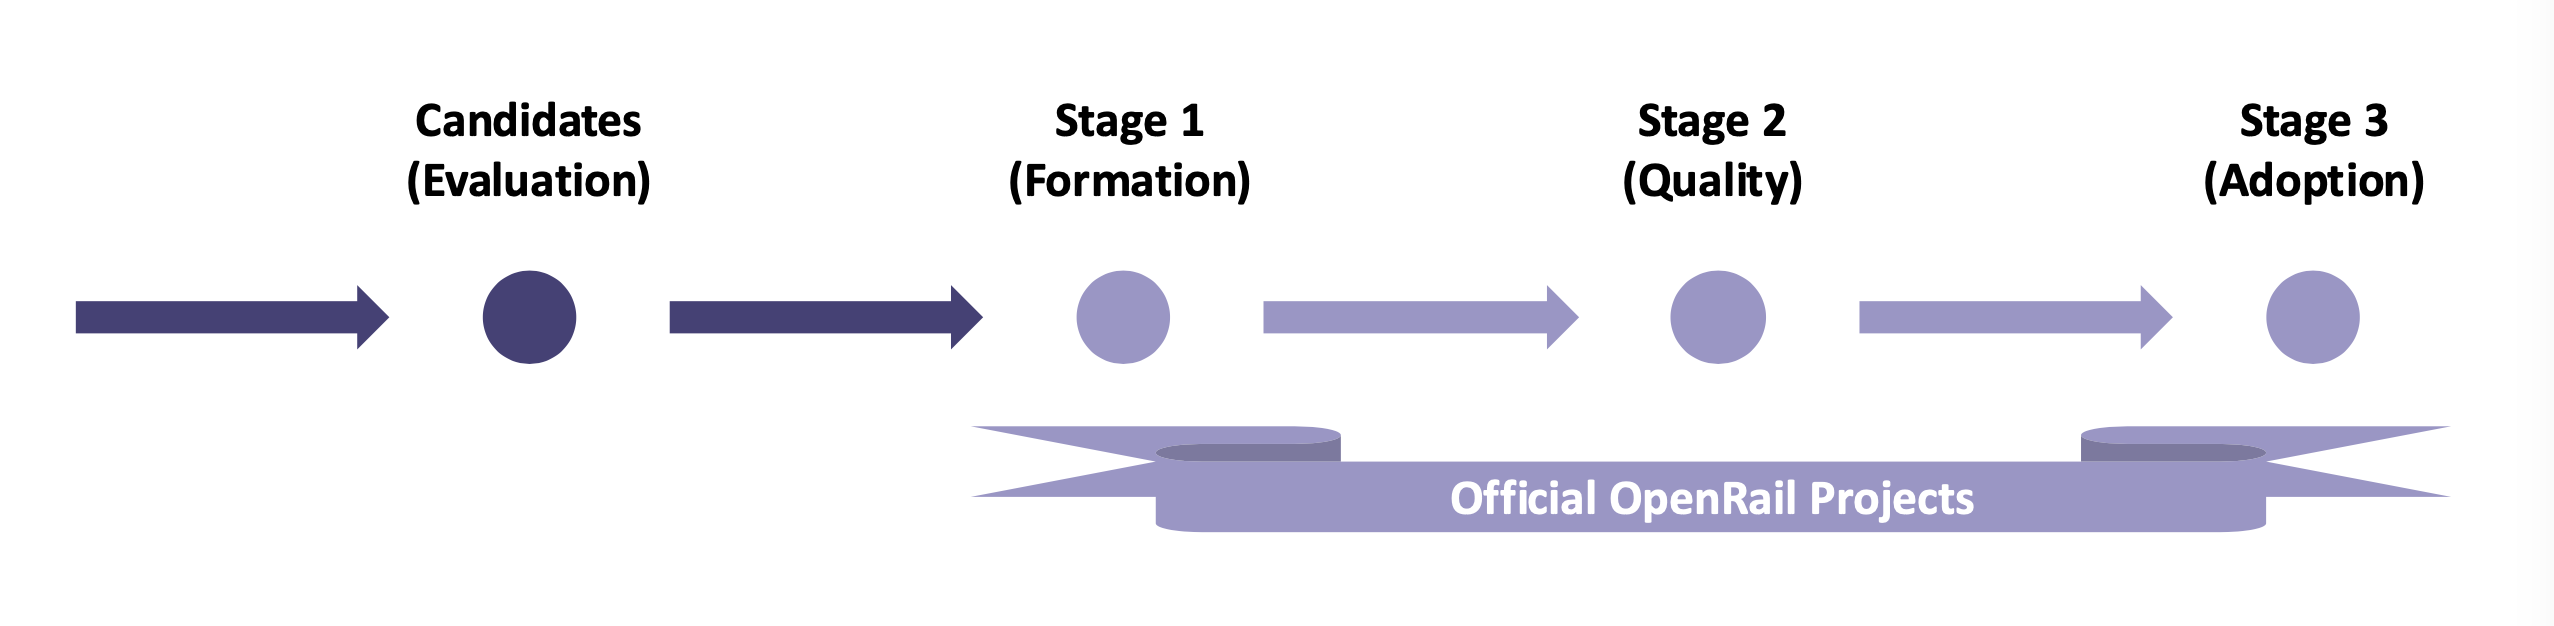
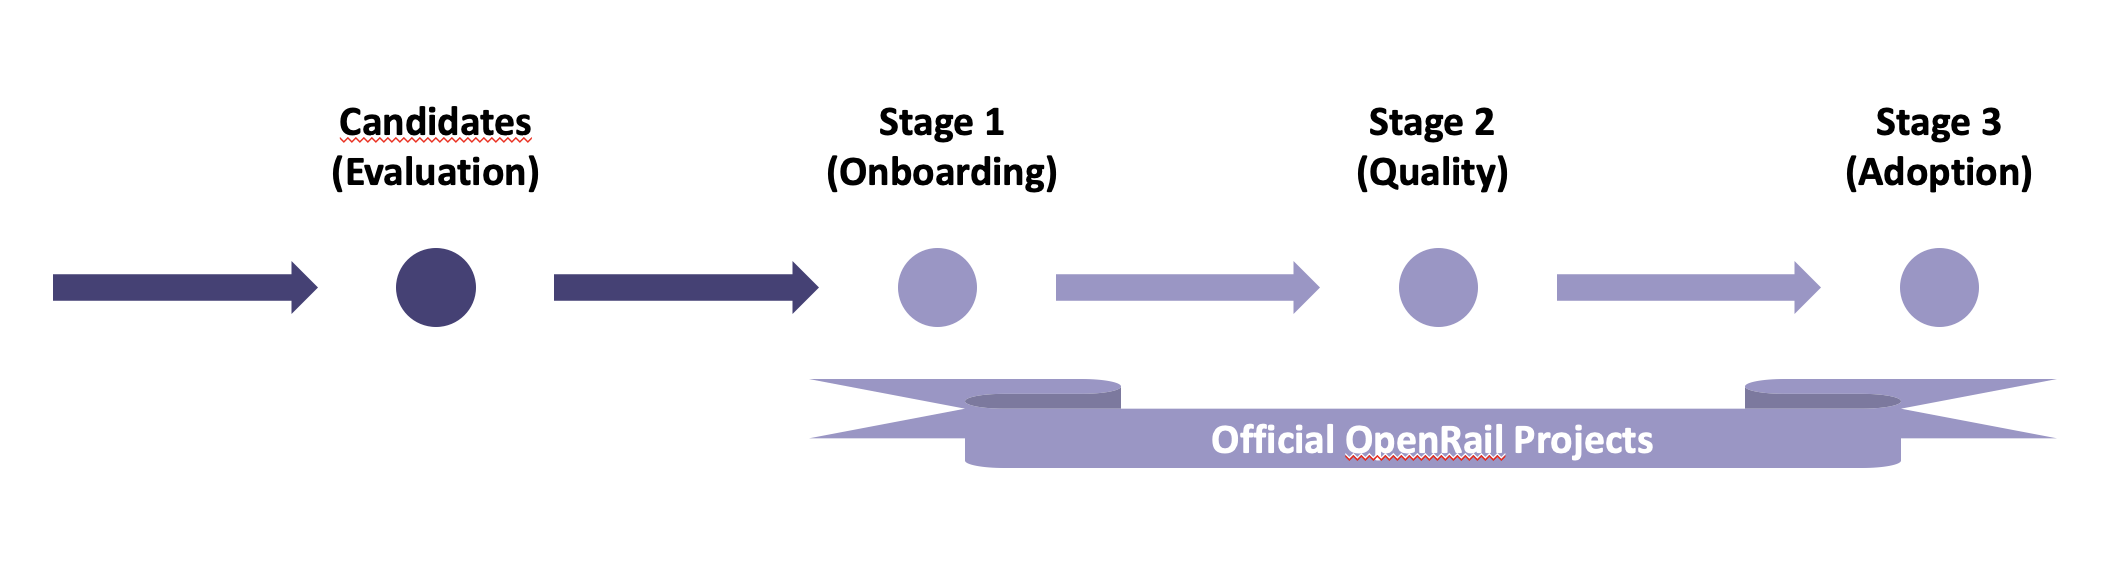
Replace Formed by Onboarded

diff --git a/incubation-process.md b/incubation-process.md
@@ -2,7 +2,7 @@
 
 This document describes the incubation process for projects in the OpenRail Association. This includes how a project can join OpenRail as well as how a project can move to subsequent stages of maturity.
 
-Projects can be in four stages which are reflecting the maturity of the project and the level of adoption in the OpenRail community (Formed, Qualified, Adopted, Retired). For each stage the project has to fulfill a set of criteria. Projects can propose to be moved from one stage to the next. The TC will evaluate the proposal and decide if the project can move to the next stage.
+Projects can be in four stages which are reflecting the maturity of the project and the level of adoption in the OpenRail community (Onboarded, Qualified, Adopted, Retired). For each stage the project has to fulfill a set of criteria. Projects can propose to be moved from one stage to the next. The TC will evaluate the proposal and decide if the project can move to the next stage.
 
 ![Project funnel](images/project-funnel.png)
 
@@ -16,15 +16,15 @@ The criteria for each stage are listed in the subsequent sections along with the
 
 ## Stage 0: Candidate
 
-Projects which intend to join the OpenRail Association are considered candidates. Candidates are not yet OpenRail projects. They are evaluated by the Technical Committee on request of the project to become part of the OpenRail Association. Candidates need to at least fulfill the criteria for the Formed stage to be accepted into the OpenRail Association.
+Projects which intend to join the OpenRail Association are considered candidates. Candidates are not yet OpenRail projects. They are evaluated by the Technical Committee on request of the project to become part of the OpenRail Association. Candidates need to at least fulfill the criteria for the Onboarded stage to be accepted into the OpenRail Association.
 
-## Stage 1: Formed
+## Stage 1: Onboarded
 
-The Formed stage is the initial stage for projects being hosted by the OpenRail Association. Formed projects meet the minimal requirements necessary for being considered to be part of the OpenRail Association.
+The Onboarded stage is the initial stage for projects being hosted by the OpenRail Association. Onboarded projects meet the minimal requirements necessary for being considered to be part of the OpenRail Association.
 
-The Formed stage is the entry stage for all projects hosted by the OpenRail Association. This stage is meant for projects to mature and work on meeting the criteria for the Incubation stage while already being part of the OpenRail Association. This can be projects that are in an early phase or it can be projects which already are mature. More mature projects will likely spend less time in the Formed stage.
+The Onboarded stage is the entry stage for all projects hosted by the OpenRail Association. This stage is meant for projects to mature and work on meeting the criteria for the Incubation stage while already being part of the OpenRail Association. This can be projects that are in an early phase or it can be projects which already are mature. More mature projects will likely spend less time in the Onboarded stage.
 
-The barrier for entering the Formed stage is intended to be low, so that it's easy for projects to become part of the OpenRail Association and the work necessary for moving to the next stage can be done within the Association with the support of the Technical Committee.
+The barrier for entering the Onboarded stage is intended to be low, so that it's easy for projects to become part of the OpenRail Association and the work necessary for moving to the next stage can be done within the Association with the support of the Technical Committee.
 
 ### Criteria
 
@@ -36,13 +36,13 @@ The barrier for entering the Formed stage is intended to be low, so that it's ea
 
 ### Process
 
-1. The project applies to join the Formed using the [New Project Questionnaire](project-proposals/stage-1/stage-1-questionnaire.md).
+1. The project applies to join the Onboarded using the [New Project Questionnaire](project-proposals/stage-1/stage-1-questionnaire.md).
 2. The Technical Committee evaluates the application and works with the project to address any open issues.
 3. On a positive evaluation the Technical Committee prepares the decision to accept the project as an OpenRail Association project.
 4. According to the statutes of the OpenRail Association Article 22 the OpenRail board finally decides about the acceptance of the project based on the decision prepared by the Technical Committee.
-5. The project is accepted into the OpenRail Association as Formed project and their code is moved to the [GitHub organization of the OpenRail Association](https://github.com/OpenRailAssociation).
+5. The project is accepted into the OpenRail Association as Onboarded project and their code is moved to the [GitHub organization of the OpenRail Association](https://github.com/OpenRailAssociation).
 6. The project is listed on the [OpenRail Association web site](https://openrailassociation.org).
-7. Formed projects can use the badge "OpenRail project (Formed)" (to be created).
+7. Onboarded projects can use the badge "OpenRail project (Onboarded)" (to be created).
 
 ## Stage 2: Qualified
 
